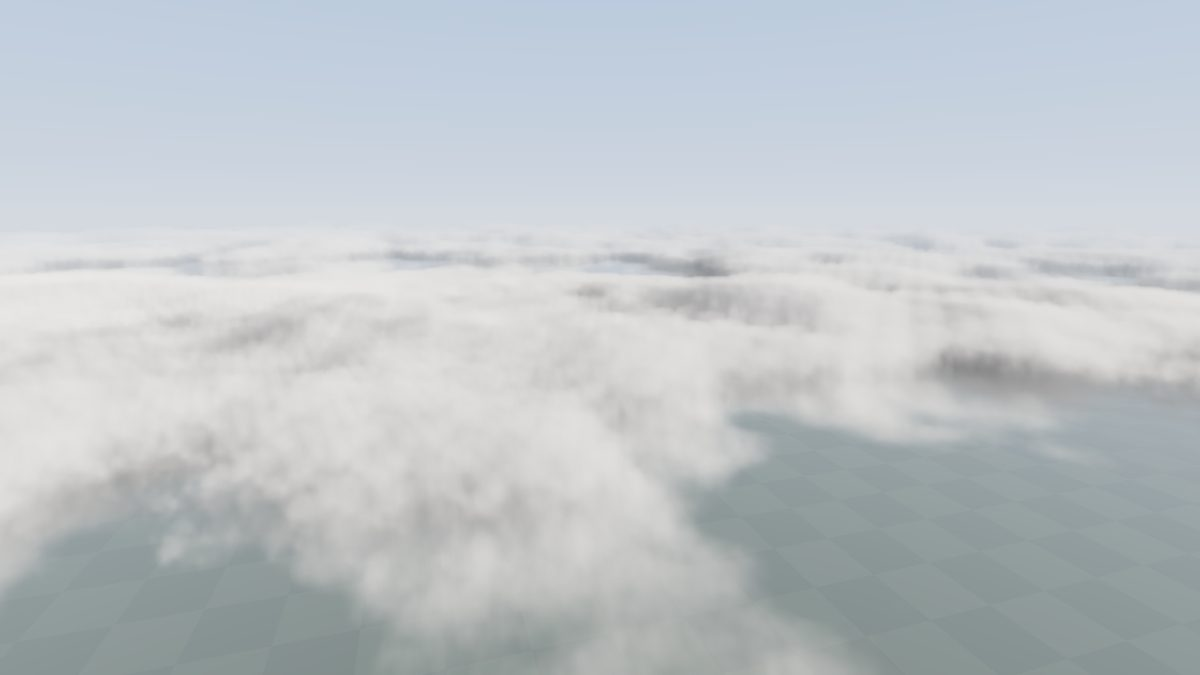
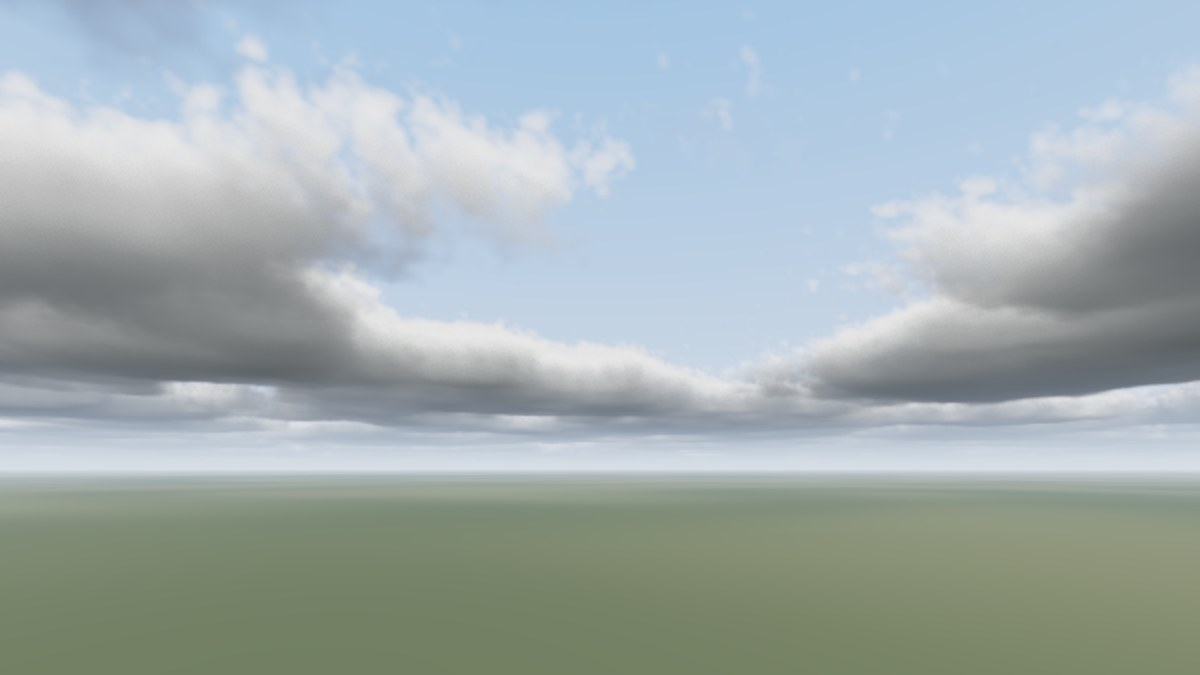
New cloud renderer screenshot

diff --git a/index.html b/index.html
@@ -108,7 +108,7 @@
   </article>
 
   <article class="project">
-    <a class="shot" href="https://github.com/harkawataryan/Volumetric-Cloud-Renderer"><img src="assets/clouds.jpg" alt="Rendered clouds seen from above the layer" loading="lazy" width="1200" height="675"></a>
+    <a class="shot" href="https://github.com/harkawataryan/Volumetric-Cloud-Renderer"><img src="assets/clouds.jpg?v=2" alt="Rendered cumulus clouds seen from the ground" loading="lazy" width="1200" height="675"></a>
     <h3>Volumetric Cloud Renderer</h3>
     <p class="stack">C++ · OpenGL · GLSL</p>
 
